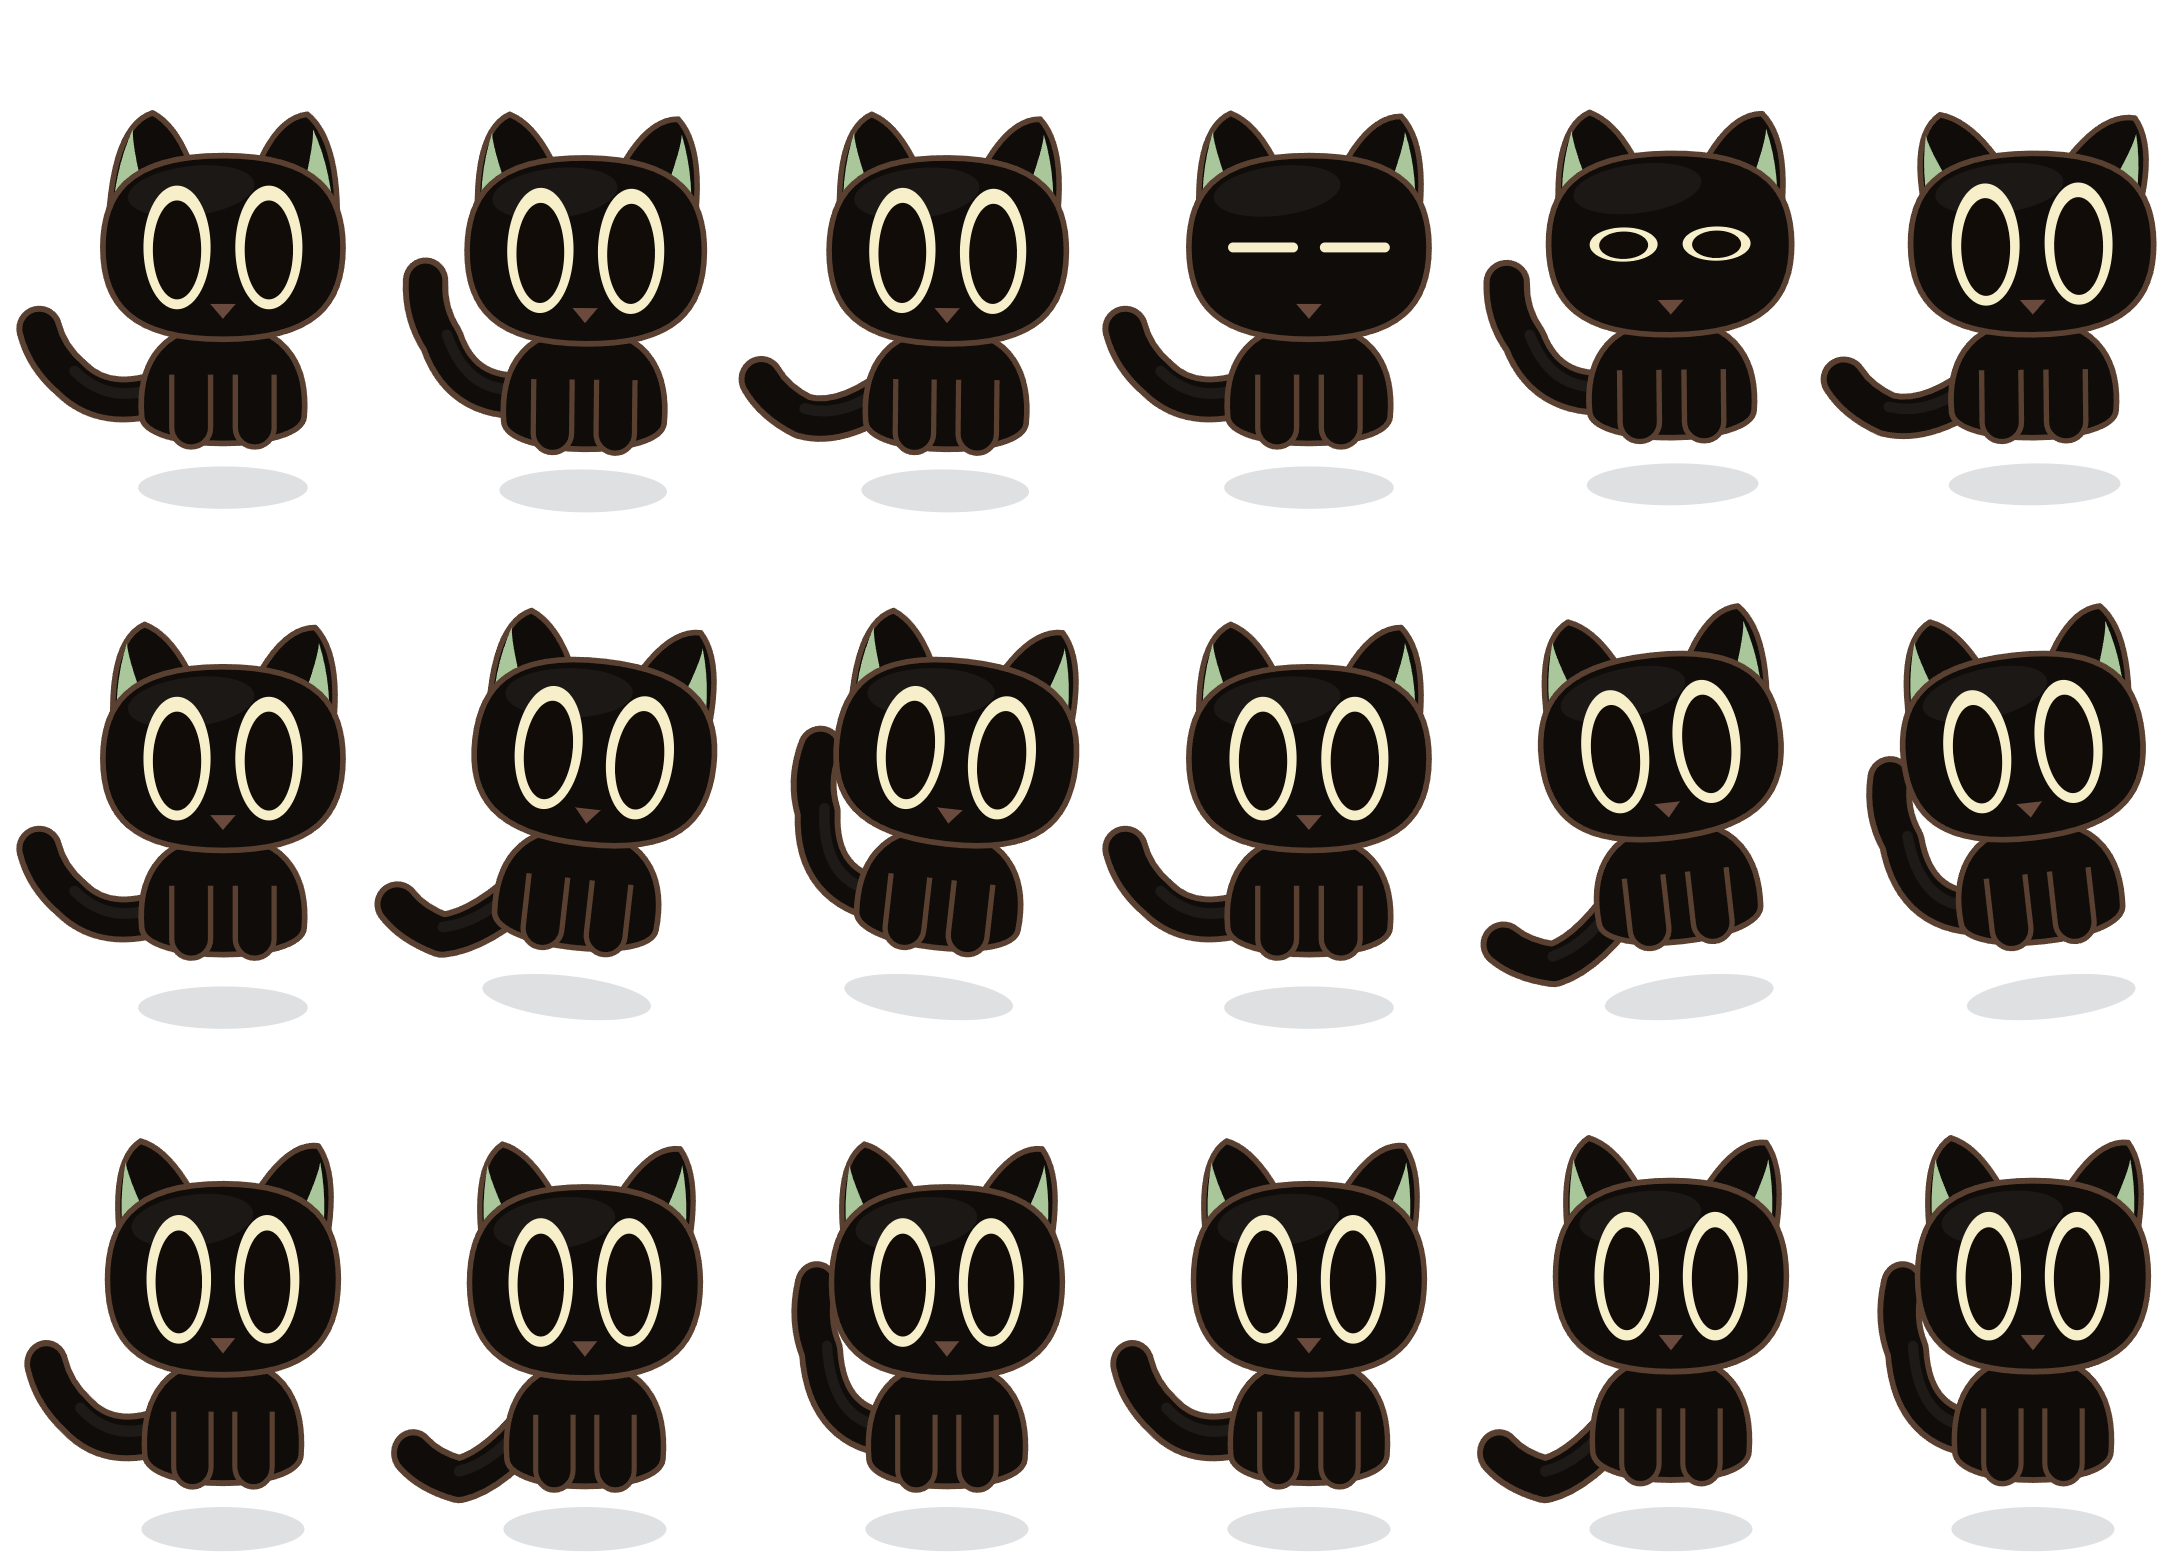
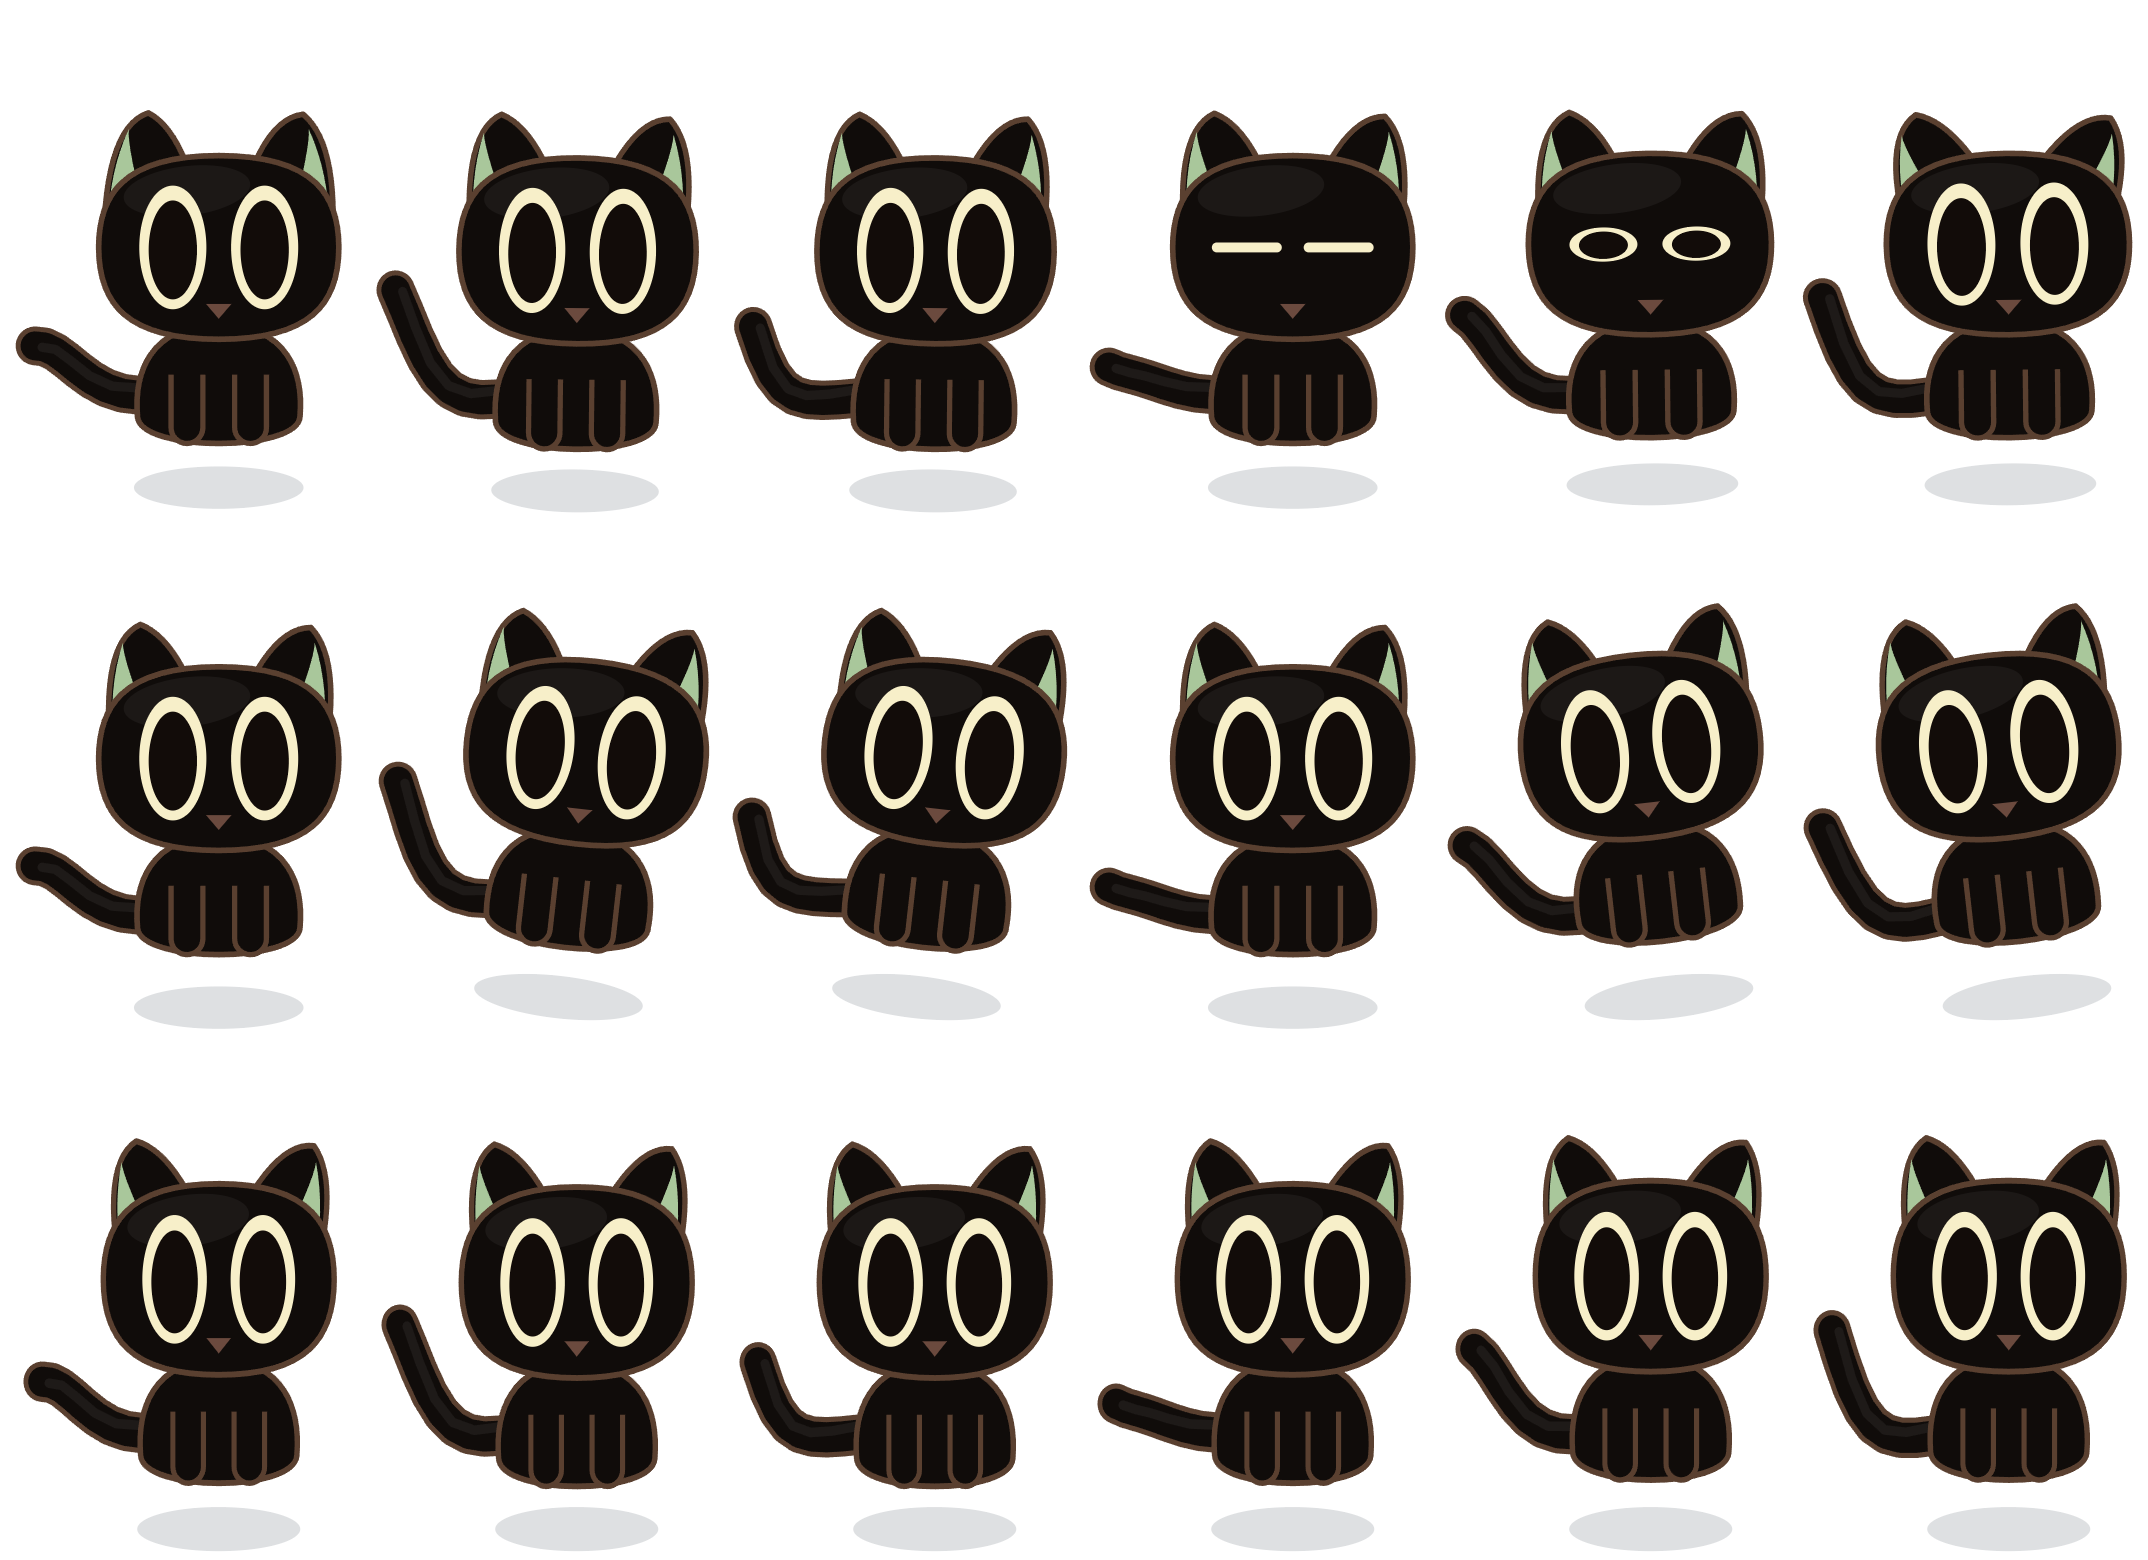
大眼黑猫：尾巴和前爪变细、尾巴改成水草式摆动
1) 变细：尾巴描边 13 -> 11、黑芯 9.6 -> 8.2；前腿半宽 5.5 -> 4.5

2) 尾巴原来是用 ctx.rotate 让整条尾巴绕根部刚体旋转，所以很僵硬。
   改成【沿尾巴长度传播的行波】：
   - 采 10 个采样点，相位随位置往后推（t*1.7 - u*3.6）
   - 幅度按 u² 增长，所以根部几乎不动、尾尖甩得最厉害
   - 叠加一条基础下垂弧度，避免摆动时像根棍子
   这才是水草那种从根部到尖端逐段延迟摆动的感觉。

diff --git a/build/make-skins.js b/build/make-skins.js
@@ -1851,26 +1851,43 @@ function drawCat(ctx, q, p, kind) {
 
   /* ---------- 尾巴（身后，向左下弯出去） ---------- */
   ctx.save();
-  ctx.translate(-20, 15);
-  ctx.rotate(wag * 0.55);
+  ctx.translate(-20, 17);
     /* 尾巴：先描粗的褐边，再压细的黑芯 —— 就得到带描边的尾巴。
        长度比之前长一截，弯得也更舒展。 */
+    /* 尾巴：像水草那样摆 —— 不用整体旋转（那样很僵硬），
+       改成沿尾巴长度传播的行波：相位随位置往后推、幅度越靠尾尖越大，
+       所以根部几乎不动、尾尖甩得最厉害。 */
     const tailPath = function () {
+      const N = 10;
       ctx.beginPath();
-      ctx.moveTo(8, 2);
-      ctx.quadraticCurveTo(-12, 11, -23, 0 - wag * 10);
-      ctx.quadraticCurveTo(-30, -6 - wag * 10, -32, -14 - wag * 12);
+      for (let i = 0; i <= N; i++) {
+        const u = i / N;                                  // 0=根部 1=尾尖
+        const bx = 8 + (-32 - 8) * u;                     // 基线：向左
+        const by = 2 + (-16 - 2) * u;                     // 基线：略微向上
+        const sag = Math.sin(u * Math.PI) * 9;            // 基础下垂弧度
+        const wave = Math.sin(t * 1.7 - u * 3.6) * 11 * u * u;  // 行波
+        const px = bx - sag * 0.45;
+        const py = by + sag * 0.9 + wave;
+        if (i === 0) ctx.moveTo(px, py); else ctx.lineTo(px, py);
+      }
     };
     ctx.lineCap = 'round'; ctx.lineJoin = 'round';
     tailPath();
-    ctx.strokeStyle = FUR_D; ctx.lineWidth = 13; ctx.stroke();
+    ctx.strokeStyle = FUR_D; ctx.lineWidth = 11; ctx.stroke();     // 褐色描边
     tailPath();
-    ctx.strokeStyle = FUR; ctx.lineWidth = 9.6; ctx.stroke();
+    ctx.strokeStyle = FUR; ctx.lineWidth = 8.2; ctx.stroke();      // 黑色芯
     /* 尾身上一道浅高光 */
-    ctx.strokeStyle = 'rgba(255,255,255,.06)'; ctx.lineWidth = 3;
+    ctx.strokeStyle = 'rgba(255,255,255,.06)'; ctx.lineWidth = 2.6;
     ctx.beginPath();
-    ctx.moveTo(5, 1);
-    ctx.quadraticCurveTo(-11, 9, -22, -2 - wag * 10);
+    for (let i = 0; i <= 6; i++) {
+      const u = i / 6;
+      const bx = 5 + (-30 - 5) * u;
+      const by = 1 + (-14 - 1) * u;
+      const sag = Math.sin(u * Math.PI) * 9;
+      const wave = Math.sin(t * 1.7 - u * 3.6) * 11 * u * u;
+      const px = bx - sag * 0.45, py = by + sag * 0.9 + wave - 1.6;
+      if (i === 0) ctx.moveTo(px, py); else ctx.lineTo(px, py);
+    }
     ctx.stroke();
   ctx.restore();
 
@@ -1892,7 +1909,7 @@ function drawCat(ctx, q, p, kind) {
      颜色和身体一样，只给管子的边缘描一道深色线把它勾出来。
      上端不封口（描边不画顶边），下端是半圆。 */
   [-1, 1].forEach(function (sg) {
-    const cx = sg * 9, halfW = 5.5, topY = 14, botY = 29;
+    const cx = sg * 9, halfW = 4.5, topY = 14, botY = 29;
     ctx.beginPath();
     ctx.moveTo(cx - halfW, topY);
     ctx.lineTo(cx - halfW, botY);
